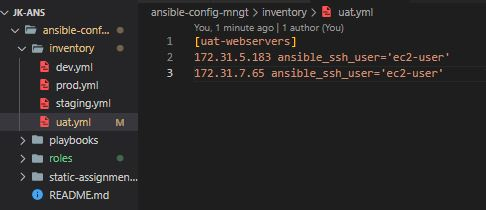
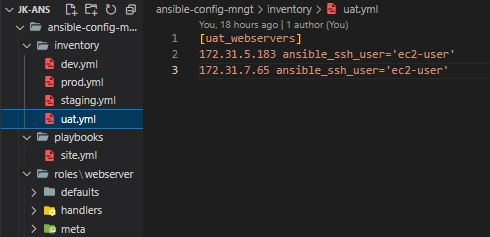
updatying roles

diff --git a/project12.md b/project12.md
@@ -142,3 +142,128 @@ Let see **code re-use** in action by importing other playbooks:
 8. Ensure that `wireshark` is deleted on all the servers by running `wireshark --version`.
 
    ![Pic12b](./project12Pictures/step12b_p12.JPG)
+
+
+**STEP 3 - CONFIGURE UAT WEBSERVERS WITH A ROLE 'WEBSERVER'**
+
+configure 2 new Web Servers as `uat`. We could write tasks to configure Web Servers in the same playbook, but it would be too messy, instead, we will use a dedicated `role` to make our configuration reusable.
+
+1. Launch 2 fresh EC2 instances using RHEL 8 image, we will use them as our `uat` servers, so give them names accordingly – `Web1-UAT` and `Web2-UAT`.
+
+2. Create a role by creating a directory called `roles` relative to the playbook file or in /`etc/ansible/ `directory.
+
+   There are two ways how you can create this folder structure:
+
+   - Use an Ansible utility called `ansible-galaxy` inside `ansible-config-mngt/`roles directory (you need to create roles directory upfront)
+
+      ```
+      mkdir roles
+      cd roles
+      ansible-galaxy init webserver
+      ```
+
+   - Create the directory/files structure manually. You can choose either way, but since all the codes are stored in GitHub, it is recommended to create folders and files there rather than locally on `Jenkins-Ansible` server.
+
+   The entire folder structure should look like below, but if you create it manually – you can skip creating `tests`, `files`, and `vars` or remove them if you used `ansible-galaxy`.
+
+   ```
+   └── webserver
+      ├── README.md
+      ├── defaults
+      │   └── main.yml
+      ├── files
+      ├── handlers
+      │   └── main.yml
+      ├── meta
+      │   └── main.yml
+      ├── tasks
+      │   └── main.yml
+      ├── templates
+      ├── tests
+      │   ├── inventory
+      │   └── test.yml
+      └── vars
+         └── main.yml
+   ```
+   After removing unnecessary directories and files, the `roles` structure should look like this:
+
+   ```
+   └── webserver
+      ├── README.md
+      ├── defaults
+      │   └── main.yml
+      ├── handlers
+      │   └── main.yml
+      ├── meta
+      │   └── main.yml
+      ├── tasks
+      │   └── main.yml
+      └── templates
+   ```
+   ![Pic13a](./project12Pictures/step13a_p12.JPG)
+
+3. Update your inventory `ansible-config-mngt/inventory/uat.yml` file with IP addresses of your 2 UAT Web servers.
+
+   ```
+   [uat_webservers]
+   <Web1-UAT-Server-Private-IP-Address> ansible_ssh_user='ec2-user' 
+
+   <Web2-UAT-Server-Private-IP-Address> ansible_ssh_user='ec2-user'
+   ```
+
+   ![Pic13b](./project12Pictures/step13b_p12.JPG)
+
+4. Locate ansible.cfg file via the path `/etc/ansible/ansible.cfg`, uncomment `roles_path` string and provide a full path to the `roles` directory i.e. `roles_path = /home/ubuntu/ansible-config-mngt/roles`, so Ansible could know where to find configured `roles`.
+
+   **Note**: In some cases, the path `/etc/ansible/ansible.cfg` may not exist. You will have to create `ansible` directory and `ansible.cfg` file in `/etc` directory and add the string path to the `roles` directory. 
+
+    ![Pic14a](./project12Pictures/step14a_p12.JPG)
+
+    ![Pic14b](./project12Pictures/step14b_p12.JPG)
+
+5. It is time to start adding some logic to the webserver role. Go into `tasks` directory, and within the `main.yml` file, start writing configuration tasks to do the following:
+   - Install and configure Apache (`httpd` service).
+   - Clone **Tooling website** from GitHub `https://github.com/<your-name>/tooling.git`.
+   - Ensure the tooling website code is deployed to `/var/www/html` on each of 2 UAT Web servers.
+   - Make sure `httpd` service is started.
+
+   The main.yml may consist of following tasks:
+
+   ```py
+   ---
+   - name: install apache
+   become: true
+   ansible.builtin.yum:
+      name: "httpd"
+      state: present
+
+   - name: install git
+   become: true
+   ansible.builtin.yum:
+      name: "git"
+      state: present
+
+   - name: clone a repo
+   become: true
+   ansible.builtin.git:
+      repo: https://github.com/<your-name>/tooling.git
+      dest: /var/www/html
+      force: yes
+
+   - name: copy html content to one level up
+   become: true
+   command: cp -r /var/www/html/html/ /var/www/
+
+   - name: Start service httpd, if not started
+   become: true
+   ansible.builtin.service:
+      name: httpd
+      state: started
+
+   - name: recursively remove /var/www/html/html/ directory
+   become: true
+   ansible.builtin.file:
+      path: /var/www/html/html
+      state: absent
+   ```
+   ![Pic15](./project12Pictures/step15_p12.JPG)
